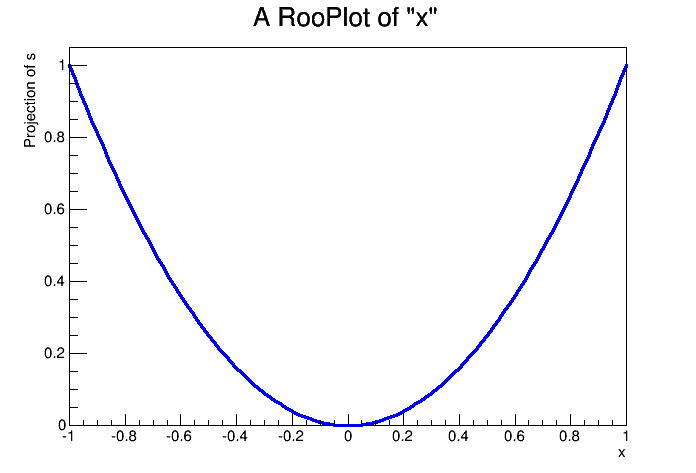
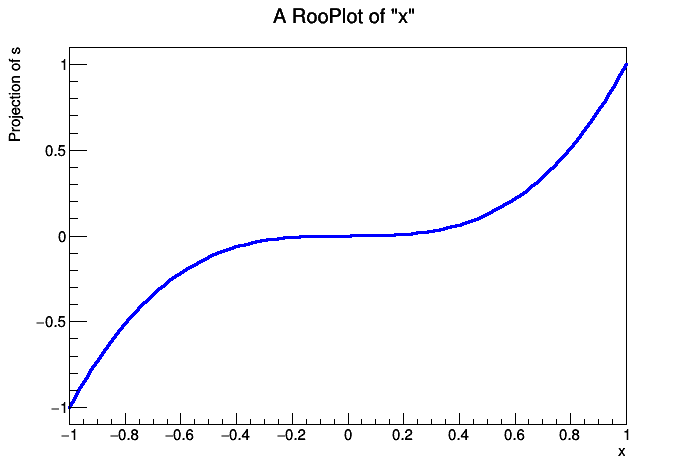
ROOT6

diff --git a/testWrapper.py b/testWrapper.py
@@ -1,9 +1,11 @@
 from ROOT import *
+import ROOT
+ROOT.RooStats
 gSystem.Load( 'libRooFitPythonWrapper' )
 
 def myFunction(x):
    #return x*x as an example
-   return x*x 
+   return x*x*x 
 
 x = RooRealVar('x','x',-1,1)
 s = RooPyWrapper('s','s',x)

diff --git a/RooPyWrapper.h b/RooPyWrapper.h
@@ -15,9 +15,7 @@
 #include "RooAbsReal.h"
 #include "RooAbsCategory.h"
 
-#ifndef __CINT__
 #include "Python.h"
-#endif
 
 #ifndef PyObject_HEAD
 struct _object;
